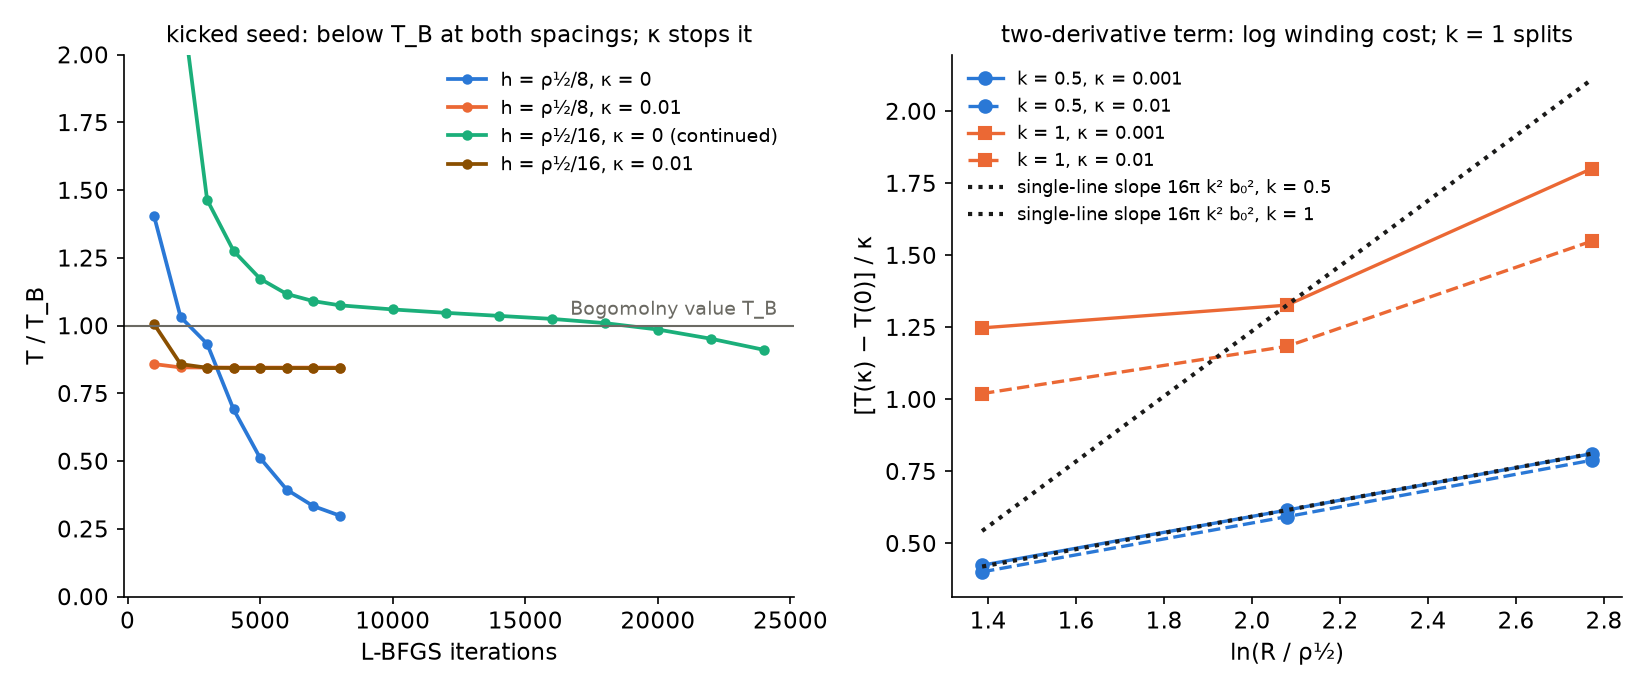
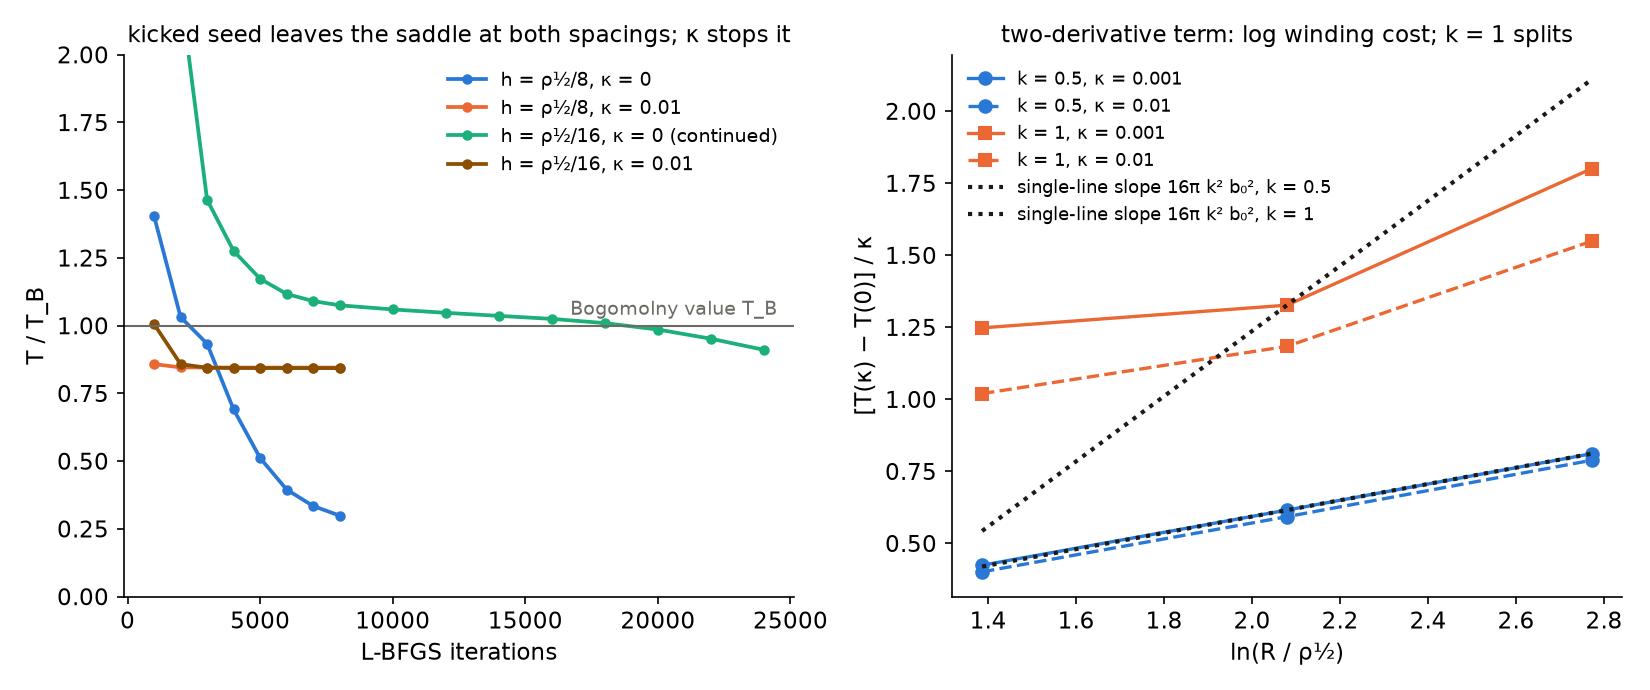
018 walls appendix, review round 1: the Bogomolny strand is a saddle (Q = -0.32, two routes); the zero-infimum claim withdrawn
Claude-Session: https://claude.ai/code/session_019fevFak8tZ4C3jULrMtmtQ

Changed region(s): [[0.0618, 0.0304, 0.4945, 0.0609]]

diff --git a/reports/018-electron-pair-biaxial/strand_saddle.py b/reports/018-electron-pair-biaxial/strand_saddle.py
@@ -1,0 +1,89 @@
+"""The Bogomolny strand is a saddle of the full frozen 2D problem (review round 1 of the walls appendix).
+
+Field: the exact k = 1/2 Bogomolny strand S_0 = A (+) 1, A = b0 I + b(r)(cos phi sigma_z + sin phi sigma_x) (b0 = beta/2,
+8 k b b'/r = sqrt2 (b0 - b)). Perturbation: only the symmetric xz and yz entries, which tilt the charge direction,
+  H_xz = f(r) cos 2phi,  H_yz = -f(r) sin 2phi,  f = (r/w)^2 exp(-r^2 / 2w^2) (1 - r^2/L^2)^3 for r < L (w = 0.65, L = 3),
+regular at the line and zero before the box boundary. Two routes to the second variation Q in T(S_0 + eps H) = T_B + eps^2 Q:
+  (1) the lattice energy of strand_walls.py, (T(eps) - T(0)) / eps^2 at eps = 1e-3, at h = rho_1/2 / 8 and / 16;
+  (2) the radial integral of the expanded density (m = -2),
+      Q = 2 pi int r dr { 4/r^2 [(b f')^2 + m^2 (b' f)^2 + 6 m b b' f f'] + [2 b (b0 - b) / ((1 - b0)^2 - b^2)] f^2 }.
+Q < 0: arbitrarily small regular perturbations lower the tension. The smooth and unmelted seeds of the appendix have
+S_xz = S_yz = 0, a symmetric subspace on which the gradient in those components vanishes, so they cannot leave it.
+Output: results/strand_saddle.json.
+"""
+import json
+import math
+
+import numpy as np
+import torch
+from scipy.integrate import solve_ivp, quad
+from strand2d import from_S, DEV
+from strand_walls import energy
+from strand_bogomolny import r_half as r_half_bogomolny, bound
+
+torch.set_default_dtype(torch.float64)
+BETA, K, W, L = 0.3, 0.5, 0.65, 3.0
+B0 = BETA / 2
+
+
+def profile():
+    """b(r) of the Bogomolny strand: 8 k b b' / r = sqrt2 (b0 - b), i.e. d(b^2)/ds = sqrt2 (b0 - b) / (4k), s = r^2/2."""
+    sol = solve_ivp(lambda s, q: [math.sqrt(2) * (B0 - math.sqrt(max(q[0], 0))) / (4 * K)], [0, 60], [0.0],
+                    max_step=2e-4, dense_output=True, rtol=1e-10, atol=1e-13)
+    ss = np.linspace(0, 60, 600001)
+    qq = sol.sol(ss)[0]
+    return lambda r: np.sqrt(np.maximum(np.interp(np.asarray(r, dtype=float) ** 2 / 2, ss, qq), 0))
+
+
+def f_of(r):
+    r = np.asarray(r, dtype=float)
+    return np.where(r < L, (r / W) ** 2 * np.exp(-r ** 2 / (2 * W ** 2)) * (1 - r ** 2 / L ** 2) ** 3, 0.0)
+
+
+def fields(h, R, eps, bfun):
+    n = int(round(2 * R / h)) + 1
+    c = np.linspace(-R, R, n)
+    x, y = np.meshgrid(c, c, indexing='ij')
+    x = x + 1e-7
+    r, phi = np.hypot(x, y), np.arctan2(y, x)
+    b = bfun(r)
+    S = np.zeros((n, n, 3, 3))
+    S[..., 0, 0] = B0 + b * np.cos(phi)            # cos 2 theta with theta = phi / 2
+    S[..., 1, 1] = B0 - b * np.cos(phi)
+    S[..., 0, 1] = S[..., 1, 0] = b * np.sin(phi)
+    S[..., 2, 2] = 1.0
+    f = f_of(r)
+    S[..., 0, 2] = S[..., 2, 0] = eps * f * np.cos(2 * phi)
+    S[..., 1, 2] = S[..., 2, 1] = -eps * f * np.sin(2 * phi)
+    return from_S(torch.tensor(S, device=DEV))
+
+
+def radial_Q(bfun):
+    m = -2.0
+    def b(r): return float(bfun(r))
+    def db(r, d=1e-6): return (b(r + d) - b(max(r - d, 0))) / (r + d - max(r - d, 0))
+    def f(r): return float(f_of(r))
+    def df(r, d=1e-6): return (f(r + d) - f(max(r - d, 0))) / (r + d - max(r - d, 0))
+    def integrand(r):
+        quart = 4 / r ** 2 * ((b(r) * df(r)) ** 2 + m ** 2 * (db(r) * f(r)) ** 2 + 6 * m * b(r) * db(r) * f(r) * df(r))
+        pot = 2 * b(r) * (B0 - b(r)) / ((1 - B0) ** 2 - b(r) ** 2) * f(r) ** 2
+        return 2 * math.pi * r * (quart + pot)
+    val, err = quad(integrand, 1e-6, L, limit=400)
+    return val
+
+
+if __name__ == '__main__':
+    bfun = profile()
+    rh = r_half_bogomolny(BETA, 0.5)
+    E = (100.0, 1.0, BETA, 0.0)
+    out = {'Q_radial': radial_Q(bfun), 'lattice': []}
+    eps = 1e-3
+    for div in (8, 16):
+        h, R = rh / div, 3.3                          # box half-size 3.3 > L: the perturbation vanishes before the boundary
+        T0 = float(energy(fields(h, R, 0.0, bfun), h, E))
+        Te = float(energy(fields(h, R, eps, bfun), h, E))
+        out['lattice'].append(dict(h=h, T0=T0, T0_over_bound=T0 / bound(BETA, K), Q=(Te - T0) / eps ** 2))
+        print(json.dumps(out['lattice'][-1]), flush=True)
+    print('Q radial', out['Q_radial'])
+    json.dump(out, open('results/strand_saddle.json', 'w'), indent=1)
+    assert out['Q_radial'] < 0 and all(r['Q'] < 0 for r in out['lattice'])

diff --git a/reports/018-electron-pair-biaxial/verify_appendix_walls.py b/reports/018-electron-pair-biaxial/verify_appendix_walls.py
@@ -41,4 +41,7 @@ r1 = (added(1.0, 1e-2, 16) - added(1.0, 1e-2, 8)) / (added(0.5, 1e-2, 16) - adde
 assert 1.5 < r1 < 3.0, 'k = 1 grows about twice as fast as k = 1/2, not four times (it splits)'
 sp = load('strand_walls_split.json')[0]
 assert sp['k'] == 1.0 and sp['kappa'] == 1e-2
+sd = load('strand_saddle.json')
+assert -0.4 < sd['Q_radial'] < -0.25 and all(abs(r['Q'] / sd['Q_radial'] - 1) < 0.02 for r in sd['lattice']), \
+    'the Bogomolny strand is a saddle: Q < 0 by the radial integral and on the lattice at both spacings'
 print('verify_appendix_walls: all assertions pass')

diff --git a/reports/018-electron-pair-biaxial/make_appendix_walls_figure.py b/reports/018-electron-pair-biaxial/make_appendix_walls_figure.py
@@ -45,7 +45,7 @@ for r in kick:
     ax.plot(it, y, '-o', color=col, ms=4, lw=1.8, label=lab)
 ax.axhline(1, color=MUTED, lw=1)
 ax.text(24500, 1.04, 'Bogomolny value T_B', color=MUTED, fontsize=9, ha='right')
-ax.set(xlabel='L-BFGS iterations', ylabel='T / T_B', ylim=(0, 2.0), title='kicked seed: below T_B at both spacings; κ stops it')
+ax.set(xlabel='L-BFGS iterations', ylabel='T / T_B', ylim=(0, 2.0), title='kicked seed leaves the saddle at both spacings; κ stops it')
 ax.legend(frameon=False, fontsize=9, loc='upper right')
 ax.title.set_fontsize(11)
 

diff --git a/reports/018-electron-pair-biaxial/APPENDIX-walls-kappa.md b/reports/018-electron-pair-biaxial/APPENDIX-walls-kappa.md
@@ -1,8 +1,8 @@
 # Appendix — is the Bogomolny strand the lowest state, and what a two-derivative term changes
 
 *Added 2026-09-27 under METHOD §7 (new material; no conclusion of the report
-is withdrawn, one is qualified: result 3's tension is that of the smooth
-local minimum). Prompted by substrate-framework discussion #186
+is withdrawn, one is qualified: result 3's tension is that of the planar
+branch, which is a saddle of the full frozen 2D problem). Prompted by substrate-framework discussion #186
 (2026-09-25): OpenWave's R26 found that under its action the smooth-core
 strand is a saddle and relaxes into π-jump walls of the pair anisotropy
 ("free under the commutator curvature along the wall"), and J. Duda
@@ -23,23 +23,34 @@ the 2D lattice of `strand2d.py` (β = 0.3; ρ½ is the Bogomolny core radius,
 
 The unmelted core costs ∝ 1/h² on the lattice (its line cell carries
 gradients of order β/h) and melts back to the Bogomolny profile. The
-same random perturbation (drawn once and interpolated) goes below T_B at
-both spacings, later at the finer one. The states below T_B are built from
-turns of the transverse frame by 1.2–1.5 rad **across a single cell**
-while the charge direction and the eigenvalues stay near their vacuum
-values (|e₁·ẑ| ≥ 0.88). The physical gradient of these jumps grows as h
-falls (30 rad per unit length at ρ½/8, 47 at ρ½/16). A texture that
-varies in one direction only has F_xy = 0 however sharp it is, so these
-lattice-scale sheets are the discrete form of discontinuous, rank-one
-textures that cost no quartic energy. At h = ρ½/8 the line also leaves
-the centre of the box.
+smooth and unmelted seeds keep S_xz = S_yz = 0, a symmetric subspace that
+gradient descent cannot leave, so their convergence does not test
+stability outside it.
 
-**So the quartic action with this potential has no tension floor
-either.** T_B = (2√2π/3)kβ³ is the tension of the smooth, radially
-symmetric local minimum, which every smooth or unmelted seed reaches. It
-is not a lower bound on the energy of lattice fields, and in the continuum
-it does not bound fields that are allowed to jump. This is R26's finding,
-reproduced for the eigenvalue potential.
+**The Bogomolny strand is a saddle (review round 1).** A regular
+perturbation of the xz and yz entries alone (they tilt the charge
+direction), f(r)(cos 2φ, −sin 2φ) with a profile vanishing at the line
+and before the boundary, lowers the energy at second order:
+T = T_B + ε²Q with Q = −0.32. The radial integral of the expanded
+density gives this value, and so do energy differences on the lattice at
+both spacings (`strand_saddle.py`). The quartic term carries the negative
+part, and the potential adds +0.01. So T_B = (2√2π/3)kβ³ is the tension of
+the planar branch (charge direction fixed along the line), which is a
+saddle of the full frozen problem.
+
+**The kicked seeds leave it.** The same random perturbation (drawn once
+and interpolated) goes below T_B at both spacings, later at the finer
+one. The lowest energies reached are 0.20 T_B (h = ρ½/8) and 0.91 T_B
+(ρ½/16), and both runs are still falling. These are upper bounds on the
+infimum of the lattice tension; they do not show that the infimum is
+zero, which is left open. The low-energy states contain turns of the
+transverse frame by 1.2–1.5 rad across a single cell, with the charge
+direction tilted by up to |e₁·ẑ| = 0.88 and the eigenvalues near their
+vacuum values. At h = ρ½/8 the line also leaves the centre of the box.
+Whether a smooth continuum family reaches below T_B by more than the
+second-order descent, and how far, is not settled here. This is the
+same qualitative finding as R26 (the smooth-core strand is a saddle),
+now for the eigenvalue potential.
 
 ## (b) The two-derivative term κ Σᵢ Tr(∂ᵢN ∂ᵢN)
 
@@ -60,9 +71,9 @@ reproduced for the eigenvalue potential.
    the centre and no sheets. At h = ρ½/16 it reaches 0.843 T_B, the same
    to 0.2%: unlike the descent without κ, this state does not depend on the
    spacing. That state lies below
-   the smooth radial strand with the same κ (about 1.15–1.19 T_B at these
-   boxes), so with κ the lowest strand found has a non-radial core. Its
-   dependence on β is not measured.
+   the planar strand with the same κ (about 1.15–1.19 T_B at these boxes);
+   it is the lowest strand found with κ, not a demonstrated minimum, and its
+   stability and its dependence on β are not measured.
 
 ![walls and kappa](results/fig_appendix_walls.png)
 
@@ -73,9 +84,10 @@ slope 16πk²b₀² for each.*
 
 ## What this does not show
 
-- No continuum limit is taken. Two spacings show descent below T_B at
-  both, slower at the finer one; neither run has stopped, so the lowest
-  lattice energy at either spacing is not known.
+- No continuum limit is taken and the infimum is not bounded from below.
+  Two spacings show descent below T_B, slower at the finer one; neither
+  run without κ has stopped, so the lowest lattice energy at either
+  spacing is not known.
 - One β (0.3) and one random perturbation. The κ-stabilised tension is
   measured at one κ (at two spacings), not as a function of β,
   so the β³ law of the report is not transferred to it.
@@ -86,6 +98,7 @@ slope 16πk²b₀² for each.*
 
 ## Reproduction
 
+`python strand_saddle.py` (the second variation, CPU, minutes) and
 `python strand_walls.py seeds|kick|continue16|kick16kappa|kappa|split`
 (GPU, hours each; `kick` and `continue16` about 2 and 4 hours on an RTX
 4070) regenerates the records; `make_appendix_walls_figure.py` draws the
